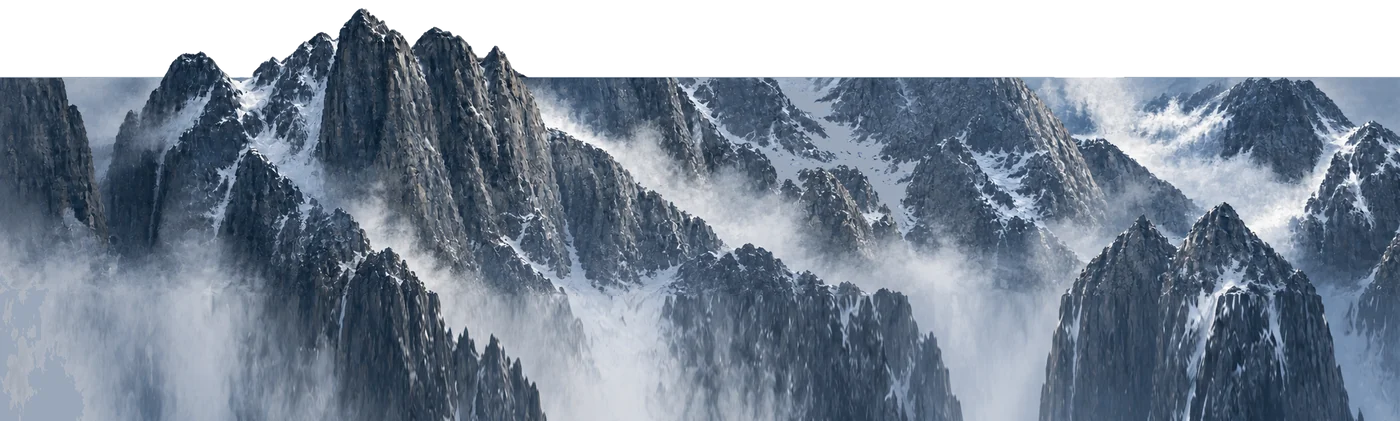
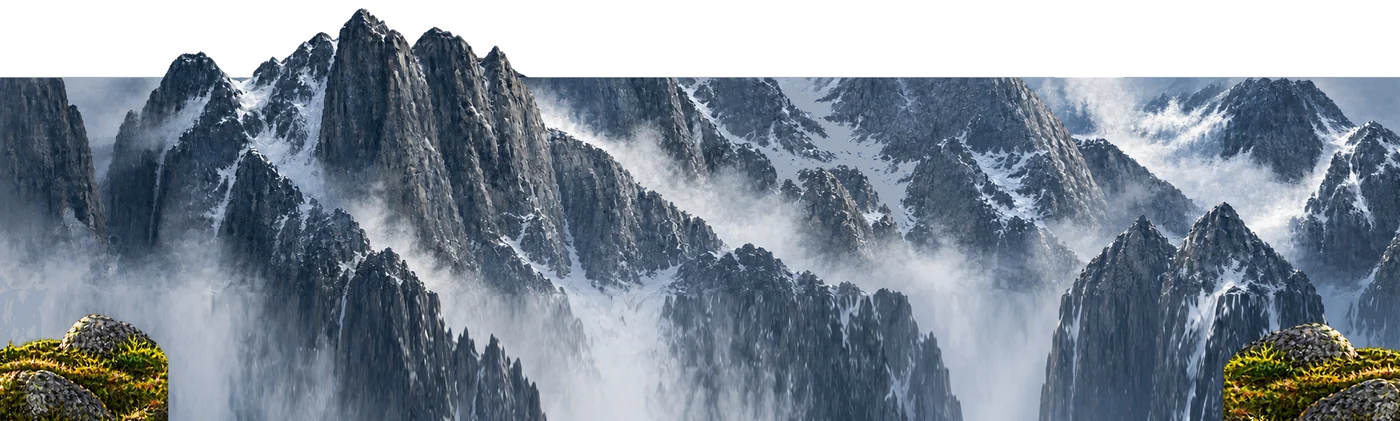
Difficulty page like the original: sizes, entrance / exit, chosen card grows, card borders
- normal and hard the same size, the two with the gap as wide as adventure; a layered picture's frame fills its
  card exactly; effects (leaves, embers, fog) stay inside the frame
- the cards fly in (normal from the left, hard from the right, adventure from above), knock together with a short
  shake and settle; leaving, they fly out the way they came; plate, text and buttons fade
- no difficulty until one is picked (Continue waits), a click on the chosen one unchooses it; it grows above the
  others and only then its chosen-effects show (not on hover)
- skin regions frame.diff.adventure / normal / hard: steel borders with a coloured ornamented band, drawn between
  the layers (layers.json frameSkin, frameZ); the user's new adventure back layer

Claude-Session: https://claude.ai/code/session_01L8aGjgA4exAss1WkdLM4Fb

Changed region(s): [[0.86, 0.772, 1.0, 1.0], [0.0, 0.7411, 0.1229, 1.0]]

diff --git a/apps/app/src/screens/menu/PlainTitle.tsx b/apps/app/src/screens/menu/PlainTitle.tsx
@@ -13,7 +13,7 @@ import { useSound } from "../../audio/SoundPanel.tsx";
 import type { SoundSettings } from "../../audio/sound.ts";
 import { mapKind, setMapKind, type MapKind } from "./PlainCampaign.tsx";
 import { MenuBackground } from "./MenuBackground.tsx";
-import { LayeredArt, loadLayeredArt, useLayeredArt } from "./LayeredArt.tsx";
+import { DifficultyStep } from "./DifficultyStep.tsx";
 import { refId, useMenuData, type MenuUi } from "./useMenuData.ts";
 import { useEffect } from "react";
 
@@ -51,7 +51,8 @@ export function PlainTitle({ onPlay, onTools, hasOriginal }: {
   const [page, setPage] = useState<Page>("main");
   const [saves, setSaves] = useState<CampaignSave[]>(() => listSaves());
   const [campaign, setCampaign] = useState<number | null>(null);
-  const [difficulty, setDifficulty] = useState<Difficulty>("normal");
+  // none until the player picks one (the original's Continue waits for it)
+  const [difficulty, setDifficulty] = useState<Difficulty | null>(null);
   const [heroes, setHeroes] = useState<number[]>([]);
   const [party, setParty] = useState("");
   const [shelf, setShelf] = useState(0); // the page of campaign thumbnails
@@ -60,8 +61,6 @@ export function PlainTitle({ onPlay, onTools, hasOriginal }: {
   const [replace, setReplace] = useState<{ hero: number; slot: number } | null>(null);
   const [nameWarn, setNameWarn] = useState(false);
   const [ask, setAsk] = useState<string | null>(null); // the save slot asked to be deleted
-  const [layeredArt, setLayeredArt] = useState<Record<string, unknown> | null>(null);
-  useEffect(() => { void loadLayeredArt().then(setLayeredArt); }, []);
   const [map, setMap] = useState<MapKind>(mapKind);
   const [mapScene, setMapScene] = useState<string | null>(null);
   useEffect(() => { void loadMapScene().then(setMapScene); }, []);
@@ -81,7 +80,7 @@ export function PlainTitle({ onPlay, onTools, hasOriginal }: {
     const src = { db: () => ui.db } as unknown as ContentSource;
     const owned = ownedProducts();
     const heroItems = heroes.map((_, i) => (items[i] ?? []).filter((x): x is number => x !== null));
-    const s = newCampaignSave(src, { campaign: campaign!, heroes, difficulty, partyName: party.trim(), language: lang, heroItems,
+    const s = newCampaignSave(src, { campaign: campaign!, heroes, difficulty: difficulty ?? "normal", partyName: party.trim(), language: lang, heroItems,
       ...(owned ? { products: owned } : {}) });
     putSave(s);
     onPlay(s, true);
@@ -99,7 +98,7 @@ export function PlainTitle({ onPlay, onTools, hasOriginal }: {
         <nav className="lo-menu">
           {latest && <button className="pm-btn lo-btn" title={latestName} onClick={() => onPlay(latest)}>{t("continue")}</button>}
           <button className="pm-btn lo-btn" disabled={saves.length >= MAX_SAVES}
-            onClick={() => { setCampaign(camps[0]?._id ?? null); setShelf(0); setHeroes([]); setParty(""); setPage("campaign"); }}>{t("newCampaign")}</button>
+            onClick={() => { setCampaign(camps[0]?._id ?? null); setDifficulty(null); setShelf(0); setHeroes([]); setParty(""); setPage("campaign"); }}>{t("newCampaign")}</button>
           <button className="pm-btn lo-btn" disabled={!saves.length} onClick={() => setPage("load")}>{t("load")}</button>
           <button className="pm-btn lo-btn" onClick={onTools}>{t("tools")}</button>
           {inTauri() && <button className="pm-btn lo-btn" onClick={() => { void quitApp(); }}>{t("quit")}</button>}
@@ -150,30 +149,8 @@ export function PlainTitle({ onPlay, onTools, hasOriginal }: {
       </div>
     );
   } else if (page === "difficulty") {
-    // like the original: the wide picture on top (adventure mode), normal and hard side by side under it, the chosen
-    // one's description at the bottom; the pictures are the theme's (ui/art/difficulty-<mode>.png), else a plain card
-    const card = (d: Difficulty, name: "easy" | "normal" | "hard", cls: string) => (
-      <button className={`lo-diff ${cls}${difficulty === d ? " on" : ""}${layered[d] ? " layered" : ""}`} onClick={() => setDifficulty(d)} onDoubleClick={() => setPage("heroes")}>
-        {/* the theme's layered picture (ui/art/difficulty-<mode>/), else its flat one (ui/art/difficulty-<mode>.png) */}
-        <DiffArt mode={d} on={difficulty === d} />
-        <b>{t(name)}</b>
-      </button>
-    );
-    const layered = { adventure: !!layeredArt?.["difficulty-adventure"], normal: !!layeredArt?.["difficulty-normal"], hard: !!layeredArt?.["difficulty-hard"] } as Record<Difficulty, boolean>;
-    const desc = difficulty === "adventure" ? "easyDesc" : difficulty === "hard" ? "hardDesc" : "normalDesc";
-    body = (
-      <div className="lo-campaign lo-difficulty">
-        <h2 className="lo-banner"><span>{t("toDifficulty")}</span></h2>
-        <div className="lo-diffs">
-          {card("adventure", "easy", "wide")}
-          {card("normal", "normal", "half")}
-          {card("hard", "hard", "half")}
-        </div>
-        <p className="lo-hint"><b>{t(difficulty === "adventure" ? "easy" : difficulty === "hard" ? "hard" : "normal")}.</b> {t(desc)}</p>
-        <button className="lo-corner lo-back" onClick={() => setPage("campaign")}><span>{t("back")}</span></button>
-        <button className="lo-corner lo-next" onClick={() => setPage("heroes")}><span>{t("toHeroes")}</span></button>
-      </div>
-    );
+    body = <DifficultyStep difficulty={difficulty} setDifficulty={setDifficulty} t={t}
+      onBack={() => { setShelf(0); setPage("campaign"); }} onNext={() => { setShelf(0); setPage("heroes"); }} />;
   } else if (page === "heroes") {
     // like the original: a row of HERO_ROW portrait cards with their names (paged by the arrows), the chosen heroes
     // in the five slots under it (click a slot to take the hero out again)
@@ -398,12 +375,6 @@ function defaultItems(ui: MenuUi, heroes: number[], products?: number[]): (numbe
     const m = ui.db.models.HeroModel?.[String(h)] ?? {};
     return [take(refId(m.DefaultArmor)), take(refId(m.DefaultWeapon)), take(refId(m.DefaultSecondWeapon))];
   });
-}
-
-function DiffArt({ mode, on }: { mode: Difficulty; on: boolean }) {
-  const art = useLayeredArt(`difficulty-${mode}`);
-  if (art) return <LayeredArt art={art} active={on} />;
-  return <span className="lo-diff-art" style={{ backgroundImage: `var(--sk-art-difficulty-${mode}, none)` }} />;
 }
 
 /** The settings gear (the skin's "gear" picture covers it when there is one) */

diff --git a/apps/app/src/screens/menu/LayeredArt.tsx b/apps/app/src/screens/menu/LayeredArt.tsx
@@ -1,7 +1,9 @@
 // A picture of the theme made of layers with effects between them (themes/<name>/ui/art/<art>/ 1.png, 2.png ... +
 // layers.json, built into images/ui-skin/layered.json): e.g. the difficulty cards.
-//   size + frame  the picture's size and the card's edges in it (px): the frame fills the card (kept in proportion,
-//                 centred), what lies outside it (a blade, a whip of fire) sticks out of the card
+//   size + frame  the picture's size and the card's edges in it (px): the frame fills the card exactly (stretched a
+//                 little if their proportions differ), what lies outside it (a blade, a whip of fire) sticks out of
+//                 the card; effects stay inside the frame (unless "clip": false); frameSkin: a skin region drawn as
+//                 the card's border at frameZ (default 15: over the back layer, under the figures)
 //   layers        each moves a little with the pointer over the card (depth); "flicker" varies its opacity (fire
 //                 glints), "blend" its blending (screen / lighten / multiply ...)
 //   effects       between the layers by z (fog, leaves, embers, steam, rays, distort = a layer redrawn wavering);
@@ -22,6 +24,9 @@ export interface LayeredArtData {
   size?: [number, number];
   /** the card's edges in the picture: left, top, right, bottom (px) */
   frame?: [number, number, number, number];
+  /** the skin region drawn as the card's border (9-slice over the frame), and its z among the layers */
+  frameSkin?: string;
+  frameZ?: number;
 }
 
 let all: Promise<Record<string, LayeredArtData>> | null = null;
@@ -54,7 +59,13 @@ function Flicker({ layer }: { layer: LayeredLayer }) {
   return <div ref={el} className="la-pic" style={{ backgroundImage: `url("${assetUrl(layer.src)}")` }} />;
 }
 
-export function LayeredArt({ art, active = false }: { art: LayeredArtData; active?: boolean }) {
+export function LayeredArt({ art, active = false, hoverFx = true }: {
+  art: LayeredArtData;
+  /** chosen: its "hover" effects show */
+  active?: boolean;
+  /** false: the "hover" effects only for the chosen one (not while the pointer is over it) */
+  hoverFx?: boolean;
+}) {
   const card = useRef<HTMLDivElement>(null);
   const [hover, setHover] = useState(false);
   const [box, setBox] = useState<CSSProperties>({ inset: 0 });
@@ -65,8 +76,8 @@ export function LayeredArt({ art, active = false }: { art: LayeredArtData; activ
     const [pw, ph] = art.size, [x0, y0, x1, y1] = art.frame;
     const fit = () => {
       const W = el.clientWidth, H = el.clientHeight;
-      const s = Math.min(W / Math.max(1, x1 - x0), H / Math.max(1, y1 - y0));
-      setBox({ left: (W - (x1 - x0) * s) / 2 - x0 * s, top: (H - (y1 - y0) * s) / 2 - y0 * s, width: pw * s, height: ph * s });
+      const sx = W / Math.max(1, x1 - x0), sy = H / Math.max(1, y1 - y0);
+      setBox({ left: -x0 * sx, top: -y0 * sy, width: pw * sx, height: ph * sy });
     };
     fit();
     const ro = new ResizeObserver(fit);
@@ -100,12 +111,24 @@ export function LayeredArt({ art, active = false }: { art: LayeredArtData; activ
     ...art.layers.map((l, i) => ({ z: l.z ?? (i + 1) * 10, layer: l, effect: null as Effect | null })),
     ...(art.effects ?? []).map((e) => ({ z: e.z ?? 100, layer: null as LayeredLayer | null, effect: e })),
   ].sort((a, b) => a.z - b.z);
-  const on = hover || active;
+  const on = (hoverFx && hover) || active;
   const framed = !!(art.size && art.frame);
+  // the frame inside the picture's box (%): where the effects are clipped and the border lies
+  const fr = framed ? (() => {
+    const [pw, ph] = art.size!, [x0, y0, x1, y1] = art.frame!;
+    return { l: (x0 / pw) * 100, t: (y0 / ph) * 100, r: (1 - x1 / pw) * 100, b: (1 - y1 / ph) * 100 };
+  })() : null;
+  const clip = fr ? `inset(${fr.t}% ${fr.r}% ${fr.b}% ${fr.l}%)` : undefined;
+  const border = fr && art.frameSkin ? (() => {
+    const v = art.frameSkin!.replace(/\./g, "-");
+    return { z: art.frameZ ?? 15, style: { left: `${fr.l}%`, top: `${fr.t}%`, right: `${fr.r}%`, bottom: `${fr.b}%`,
+      borderImage: `var(--sk-${v}) var(--sk-${v}-slice) / var(--sk-${v}-w)` } as CSSProperties };
+  })() : null;
   return (
     <div ref={card} className={`la${on ? " on" : ""}${framed ? " framed" : ""}`} onPointerEnter={() => setHover(true)} onPointerLeave={() => setHover(false)}>
       <div className="la-box" style={box}>
-        {parts.map((p, i) => {
+        {[...parts, ...(border ? [{ z: border.z, layer: null, effect: null }] : [])].sort((a, b) => a.z - b.z).map((p, i) => {
+          if (!p.layer && !p.effect) return <div key={i} className="la-frame" style={border!.style} />;
           if (p.layer) {
             const l = p.layer;
             return (
@@ -117,9 +140,11 @@ export function LayeredArt({ art, active = false }: { art: LayeredArtData; activ
           const e = p.effect!;
           if (e.hover && !on) return null;
           const cls = `la-fx${e.type === "rays" ? " pm-part-light" : ""}`;
+          // (a distorted layer is the picture itself: it may stick out like the others)
+          const st = clip && e.type !== "distort" && (e as any).clip !== false ? { clipPath: clip } : undefined;
           return e.depth !== undefined
-            ? <div key={i} className={cls} data-depth={e.depth}><EffectView e={e} /></div>
-            : <div key={i} className={cls}><EffectView e={e} /></div>;
+            ? <div key={i} className={cls} style={st} data-depth={e.depth}><EffectView e={e} /></div>
+            : <div key={i} className={cls} style={st}><EffectView e={e} /></div>;
         })}
       </div>
     </div>

diff --git a/apps/app/src/styles.css b/apps/app/src/styles.css
@@ -1250,3 +1250,45 @@ textarea.ed-input { resize: vertical; white-space: pre-wrap; }
 @media (hover: hover) { .lo-diff.layered:hover .la.framed { filter: brightness(1.05) drop-shadow(0 6px 10px rgba(0, 0, 0, 0.7)); } .lo-diff.layered:hover .lo-diff-art { transform: none; } }
 .lo-diff.layered:hover, .lo-diff.layered.on { z-index: 2; }
 .lo-diff.layered b { background: none; z-index: 3; }
+
+/* difficulty like the original (DifficultyStep): normal and hard the same size, the two with the gap between them as
+   wide as adventure; the chosen card grows above the others; the entrance and the exit fly */
+.lo-diffs { top: calc(165 * var(--u)); width: calc(900 * var(--u)); grid-template-rows: auto auto; column-gap: calc(80 * var(--u)); row-gap: calc(26 * var(--u)); }
+.lo-diff-slot { position: relative; }
+.lo-diff-slot.wide { grid-column: 1 / 3; aspect-ratio: 4.07; }
+.lo-diff-slot.half { aspect-ratio: 0.95; }
+.lo-diff-slot > .lo-diff, .lo-diff-slot > .lo-diff.half { position: absolute; inset: 0; width: 100%; height: 100%; justify-self: auto;
+  transition: transform 0.35s ease-out, filter 0.35s; }
+.lo-diff-slot:has(.lo-diff.on) { z-index: 3; }
+.lo-diff.on { transform: scale(1.094); }
+/* CoroutineShow: from the left / right / above to a little past their places (they knock together), a shake, settle */
+.lo-diff-slot.left { animation: dif-in-l 1.4s 0.1s both; }
+.lo-diff-slot.right { animation: dif-in-r 1.4s 0.1s both; }
+.lo-diff-slot.wide { animation: dif-in-t 1.4s 0.1s both; }
+@keyframes dif-in-l { 0% { transform: translateX(-110vw); animation-timing-function: ease-in; } 40% { transform: translateX(calc(16 * var(--u))); }
+  48% { transform: translateX(calc(16 * var(--u))) rotate(-3deg); } 56% { transform: translateX(calc(16 * var(--u))) rotate(2deg); }
+  62% { transform: translateX(calc(16 * var(--u))) rotate(0deg); animation-timing-function: ease-out; } 100% { transform: none; } }
+@keyframes dif-in-r { 0% { transform: translateX(110vw); animation-timing-function: ease-in; } 40% { transform: translateX(calc(-16 * var(--u))); }
+  48% { transform: translateX(calc(-16 * var(--u))) rotate(3deg); } 56% { transform: translateX(calc(-16 * var(--u))) rotate(-2deg); }
+  62% { transform: translateX(calc(-16 * var(--u))) rotate(0deg); animation-timing-function: ease-out; } 100% { transform: none; } }
+@keyframes dif-in-t { 0% { transform: translateY(-100vh); animation-timing-function: ease-in; } 40% { transform: translateY(calc(40 * var(--u))); }
+  48% { transform: translateY(calc(40 * var(--u))) rotate(1.5deg); } 56% { transform: translateY(calc(40 * var(--u))) rotate(-1deg); }
+  62% { transform: translateY(calc(40 * var(--u))) rotate(0deg); animation-timing-function: ease-out; } 100% { transform: none; } }
+/* leaving: back the way they came, the plate, the text and the buttons fade */
+.lo-difficulty.leaving .lo-diff-slot.left { animation: dif-out-l 0.45s ease-in both; }
+.lo-difficulty.leaving .lo-diff-slot.right { animation: dif-out-r 0.45s ease-in both; }
+.lo-difficulty.leaving .lo-diff-slot.wide { animation: dif-out-t 0.45s ease-in both; }
+@keyframes dif-out-l { to { transform: translateX(-110vw); } }
+@keyframes dif-out-r { to { transform: translateX(110vw); } }
+@keyframes dif-out-t { to { transform: translateY(-100vh); } }
+.lo-difficulty .lo-banner, .lo-difficulty .lo-hint { animation: ct-fade 0.4s ease-out both; }
+.lo-difficulty .lo-back { animation: ct-slide 0.35s ease-out both; }
+.lo-difficulty .lo-next { animation: ct-in-right 0.35s ease-out both; }
+.lo-difficulty.leaving .lo-banner, .lo-difficulty.leaving .lo-hint, .lo-difficulty.leaving .lo-corner { animation: dif-fade-out 0.35s ease-in both; }
+@keyframes dif-fade-out { to { opacity: 0; } }
+@media (prefers-reduced-motion: reduce) { .lo-diff-slot, .lo-difficulty .lo-banner, .lo-difficulty .lo-hint, .lo-difficulty .lo-corner { animation: none !important; } }
+/* the card's border of the skin (frameSkin), between the layers */
+.la-frame { position: absolute; border-style: solid; border-color: transparent; border-width: 1px; box-sizing: border-box; pointer-events: none; }
+@media (max-aspect-ratio: 4/5) {
+  .lo-diffs { width: calc(100vw - 32px); column-gap: calc(24 * var(--u)); grid-template-rows: auto auto; }
+}

diff --git a/apps/app/src/screens/menu/DifficultyStep.tsx b/apps/app/src/screens/menu/DifficultyStep.tsx
@@ -1,0 +1,57 @@
+// The difficulty page like the original's (CampaignDifficultySelection): the wide adventure card on top, normal and
+// hard under it (the two as wide as the top one together with the gap between them). CoroutineShow: the three fly in
+// - normal from the left, hard from the right, adventure from above - meet with a knock (a little past their places,
+// a short shake) and settle; DifficultyToggle: the chosen one grows above the others and its effects fade in, a
+// click on it again unchooses it; Continue waits for a choice. Leaving, they fly out the way they came.
+import { useEffect, useState } from "react";
+import type { Difficulty } from "@jime/engine";
+import { LayeredArt, useLayeredArt } from "./LayeredArt.tsx";
+import type { TrKey } from "../../ui/i18n.ts";
+
+/** the entrance (s) before the chosen card's effects may show; the exit */
+const ENTER_S = 1.5, LEAVE_S = 0.45;
+
+function Card({ mode, name, cls, on, ready, t, onPick, onGo }: {
+  mode: Difficulty; name: TrKey; cls: string; on: boolean; ready: boolean; t: (k: TrKey) => string; onPick: () => void; onGo: () => void;
+}) {
+  const art = useLayeredArt(`difficulty-${mode}`);
+  return (
+    <div className={`lo-diff-slot ${cls}`}>
+      <button className={`lo-diff${on ? " on" : ""}${art ? " layered" : ""}`} onClick={onPick} onDoubleClick={onGo}>
+        {/* the theme's layered picture (ui/art/difficulty-<mode>/), else its flat one (ui/art/difficulty-<mode>.png) */}
+        {art ? <LayeredArt art={art} active={on && ready} hoverFx={false} />
+          : <span className="lo-diff-art" style={{ backgroundImage: `var(--sk-art-difficulty-${mode}, none)` }} />}
+        <b>{t(name)}</b>
+      </button>
+    </div>
+  );
+}
+
+export function DifficultyStep({ difficulty, setDifficulty, onBack, onNext, t }: {
+  difficulty: Difficulty | null; setDifficulty: (d: Difficulty | null) => void; onBack: () => void; onNext: () => void; t: (k: TrKey) => string;
+}) {
+  const [ready, setReady] = useState(false);
+  const [leaving, setLeaving] = useState(false);
+  useEffect(() => { const id = setTimeout(() => setReady(true), ENTER_S * 1000); return () => clearTimeout(id); }, []);
+  const leave = (go: () => void) => { if (leaving) return; setLeaving(true); setTimeout(go, LEAVE_S * 1000); };
+  const pick = (d: Difficulty) => setDifficulty(difficulty === d ? null : d);
+  const name: Record<Difficulty, TrKey> = { adventure: "easy", normal: "normal", hard: "hard" };
+  const desc: Record<Difficulty, TrKey> = { adventure: "easyDesc", normal: "normalDesc", hard: "hardDesc" };
+  const card = (d: Difficulty, cls: string) => (
+    <Card mode={d} name={name[d]} cls={cls} on={difficulty === d} ready={ready && !leaving} t={t}
+      onPick={() => pick(d)} onGo={() => { setDifficulty(d); leave(onNext); }} />
+  );
+  return (
+    <div className={`lo-campaign lo-difficulty${leaving ? " leaving" : ""}`}>
+      <h2 className="lo-banner"><span>{t("toDifficulty")}</span></h2>
+      <div className={`lo-diffs${difficulty ? " chosen" : ""}`}>
+        {card("adventure", "wide")}
+        {card("normal", "half left")}
+        {card("hard", "half right")}
+      </div>
+      <p className="lo-hint">{difficulty ? <><b>{t(name[difficulty])}.</b> {t(desc[difficulty])}</> : t("diffHint")}</p>
+      <button className="lo-corner lo-back" onClick={() => leave(onBack)}><span>{t("back")}</span></button>
+      <button className="lo-corner lo-next" disabled={!difficulty} onClick={() => leave(onNext)}><span>{t("toHeroes")}</span></button>
+    </div>
+  );
+}

diff --git a/apps/app/src/ui/i18n.ts b/apps/app/src/ui/i18n.ts
@@ -15,6 +15,9 @@ const DICT: Record<string, { ru: string; en: string; it: string }> = {
   chooseCampaign: { ru: "Выберите кампанию", en: "Choose a campaign", it: "Scegliete una campagna" },
   difficulty: { ru: "Сложность", en: "Difficulty", it: "Difficoltà" },
   toDifficulty: { ru: "Выберите уровень сложности", en: "Choose the difficulty", it: "Scegliete la difficoltà" },
+  diffHint: { ru: "Выберите уровень сложности игры для кампании. На СЛОЖНОМ уровне вы получите меньше ресурсов, чем на ОБЫЧНОМ, а также встретитесь с более опасными врагами.",
+    en: "Choose the campaign's difficulty. On HARD you get fewer resources than on NORMAL and meet more dangerous enemies.",
+    it: "Scegliete la difficoltà della campagna. A DIFFICILE avrete meno risorse che a NORMALE e incontrerete nemici più pericolosi." },
   toHeroes: { ru: "Выберите героев", en: "Choose the heroes", it: "Scegliete gli eroi" },
   chooseHeroes: { ru: "Выберите героев", en: "Choose your heroes", it: "Scegliete i vostri eroi" },
   toParty: { ru: "Укажите название отряда", en: "Name the fellowship", it: "Date un nome alla compagnia" },

diff --git a/tools/menu-theme/build_skin.py b/tools/menu-theme/build_skin.py
@@ -64,6 +64,10 @@ REGIONS = [
     ("level", 48, 48, [0, 0, 0, 0]),
     # the rest: the map button
     ("map", 96, 96, [0, 0, 0, 0]),
+    # the difficulty cards' borders (over a layered picture's frame): steel with a coloured ornamented band below
+    ("frame.diff.adventure", 240, 240, [22, 22, 34, 22]),
+    ("frame.diff.normal", 240, 240, [22, 22, 34, 22]),
+    ("frame.diff.hard", 240, 240, [22, 22, 34, 22]),
 ]
 # where the app uses each region (guides/regions.md)
 USE = {
@@ -77,6 +81,7 @@ USE = {
     "button.next": "the arrow button forward (bottom right)", "plate": "name plates: heroes, map chapter and place, rest titles",
     "slot": "the chosen party's slots", "item": "item cards (the picture sits on the left 90 px)", "item.empty": "an empty item slot",
     "level": "the item level diamond", "map": "the map button of the rest",
+    "frame.diff": "the borders of the difficulty cards (layers.json frameSkin, over the back layer, under the figures)",
 }
 # regions that always take the element's whole height (top + bottom slices meet; only the middle stretches sideways)
 FIT_HEIGHT = ("banner", "plate", "button.back", "button.back.hover", "button.next", "button.next.hover")
@@ -259,6 +264,26 @@ def draw(name, w, h):
         d = ImageDraw.Draw(img)
         c = w / 2
         d.polygon([(c, 1), (w - 2, c), (c, h - 2), (1, c)], fill=(243, 234, 216, 255), outline=(176, 139, 74, 255), width=3)
+        return img
+    if name.startswith("frame.diff."):
+        band = {"adventure": ((40, 120, 120), (120, 210, 200)), "normal": ((50, 110, 50), (140, 210, 110)),
+                "hard": ((130, 30, 22), (240, 110, 60))}[name.split(".")[-1]]
+        img = Image.new("RGBA", (w, h), (0, 0, 0, 0))
+        d = ImageDraw.Draw(img)
+        # steel: a dark outline, a light bevel, the band, an inner dark line
+        steel = [(40, 42, 46), (150, 154, 160), (110, 114, 120), (175, 178, 184), (90, 94, 100), (30, 32, 35)]
+        for i, c in enumerate(steel):
+            d.rectangle([i * 2, i * 2, w - 1 - i * 2, h - 1 - i * 2], outline=(*c, 255), width=2)
+        # rivets in the corners
+        for x, y in ((6, 6), (w - 7, 6), (6, h - 7), (w - 7, h - 7)):
+            d.ellipse([x - 4, y - 4, x + 4, y + 4], fill=(200, 204, 210, 255), outline=(40, 42, 46, 255))
+        # the band at the bottom: the difficulty's colour with a running ornament
+        y0, y1 = h - 34, h - 12
+        dk, lt = band
+        d.rectangle([12, y0, w - 13, y1], fill=(*dk, 255), outline=(30, 32, 35, 255))
+        for x in range(14, w - 14, 12):
+            d.polygon([(x, y0 + 11), (x + 6, y0 + 4), (x + 12, y0 + 11), (x + 6, y0 + 18)], outline=(*lt, 255))
+        d.line([(12, y0 + 2), (w - 13, y0 + 2)], fill=(*lt, 160), width=1)
         return img
     if name == "map":
         img = Image.new("RGBA", (w, h), (0, 0, 0, 0))

diff --git a/tools/menu-theme/build_theme.py b/tools/menu-theme/build_theme.py
@@ -270,6 +270,7 @@ def layered_art(folder, name):
     layers behind show), and optionally layers.json:
       {"frame": [left, top, right, bottom],          the card's edges in the picture (px): the frame fills the card,
                                                      what lies outside it sticks out of the card
+       "frameSkin": "frame.diff.hard", "frameZ": 15,  a skin region drawn as the card's border over the frame, at z
        "layers": [{"file": "1.png", "depth": 0.1,    depth: how far it moves with the pointer (0 still .. 1)
                    "flicker": {"min": 0.3, "max": 1, "speed": 1},   its opacity wanders (fire glints)
                    "blend": "screen",                its blending (screen, lighten, multiply, overlay ...)
@@ -327,6 +328,9 @@ def layered_art(folder, name):
     out = {"layers": layers, "effects": effects}
     if size and cfg.get("frame"):
         out["size"], out["frame"] = size, cfg["frame"]
+        for k in ("frameSkin", "frameZ"):
+            if k in cfg:
+                out[k] = cfg[k]
     print(f"  layered art {name}: {n} layers, {len(effects)} effects{', frame' if 'frame' in out else ''}")
     return out
 
